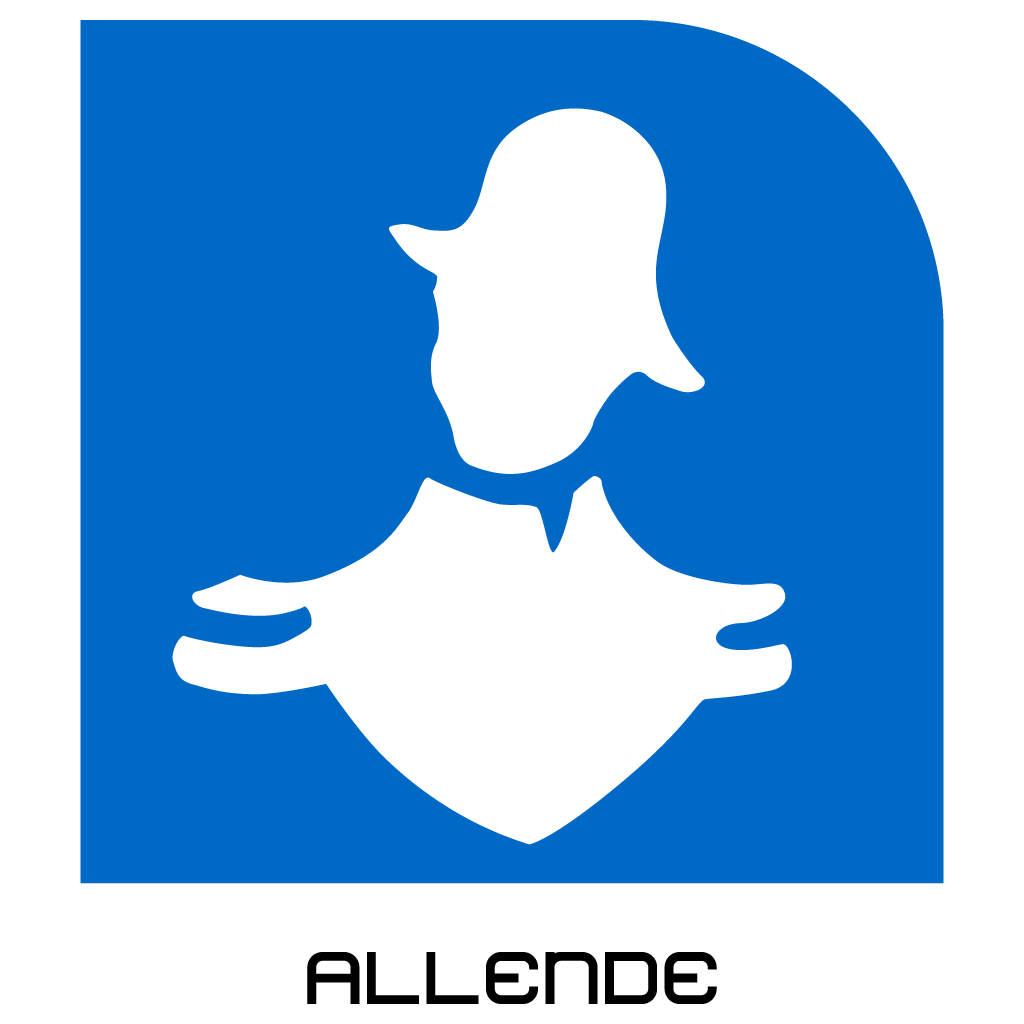
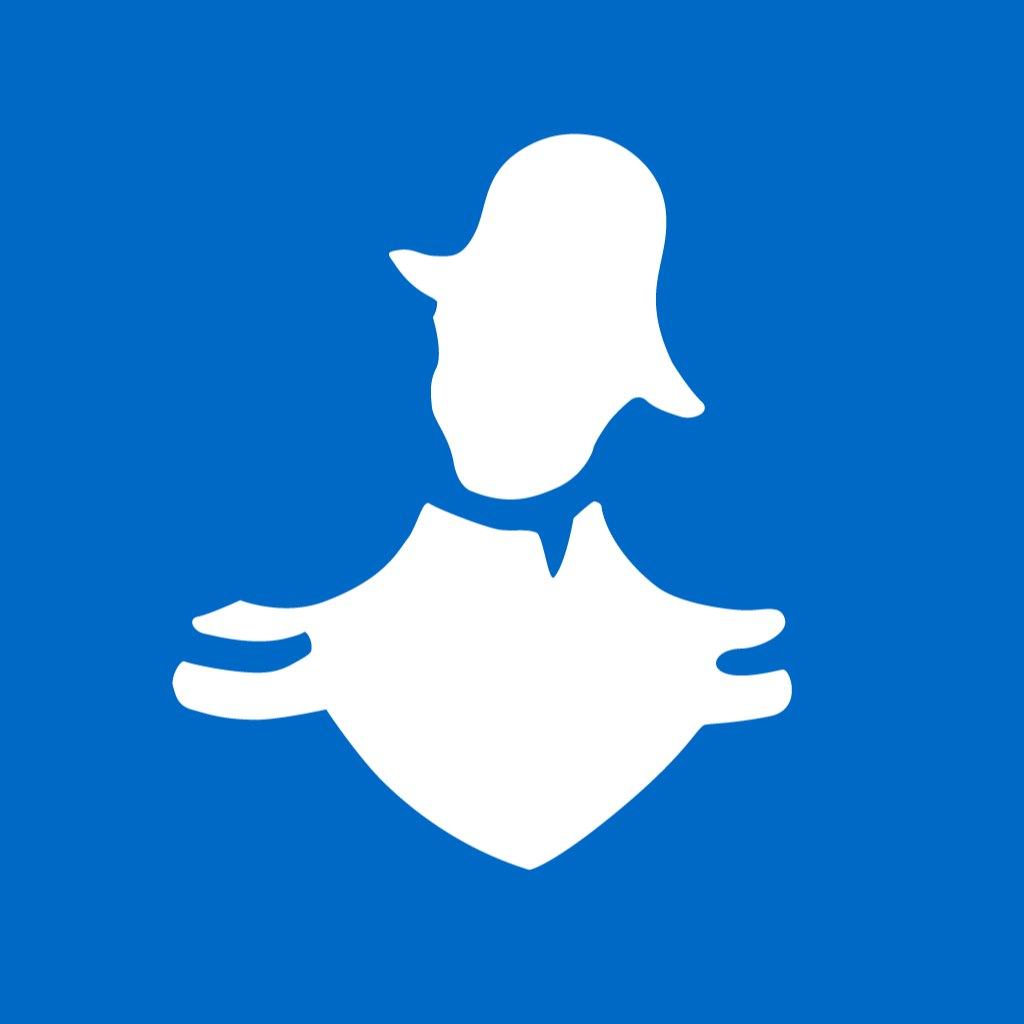
Circular borders

diff --git a/frontend/app/(tabs)/mapa.tsx b/frontend/app/(tabs)/mapa.tsx
@@ -96,7 +96,11 @@ export default function App() {
                 setStationSelected(station.name);
               }}
               >
-              <Image source={station.image} style={{ width: 37, height: 37 }} />
+              <Image 
+                source={station.image} 
+                style={{ width: 37, height: 37, borderRadius: 100 }} 
+                resizeMode={"cover"} 
+              />
             </Marker>
           ))}
         </MapView>
